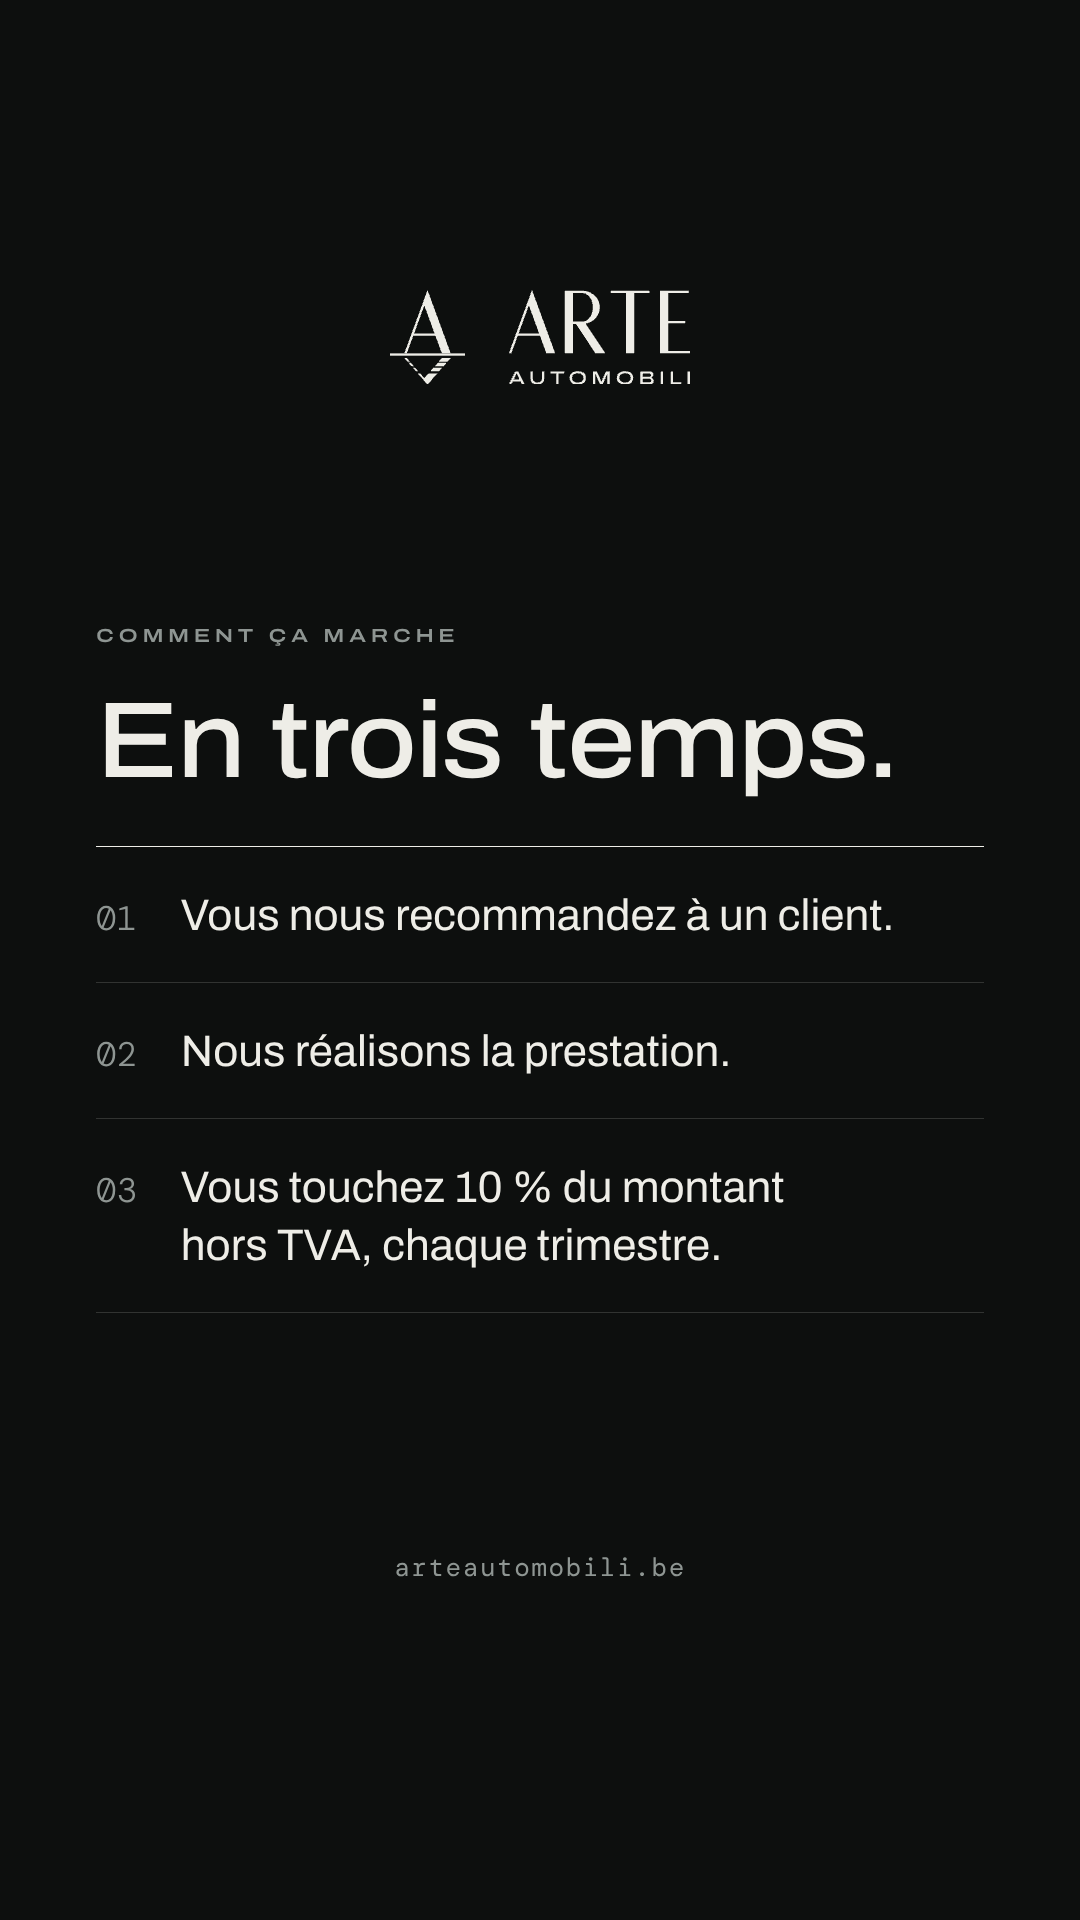
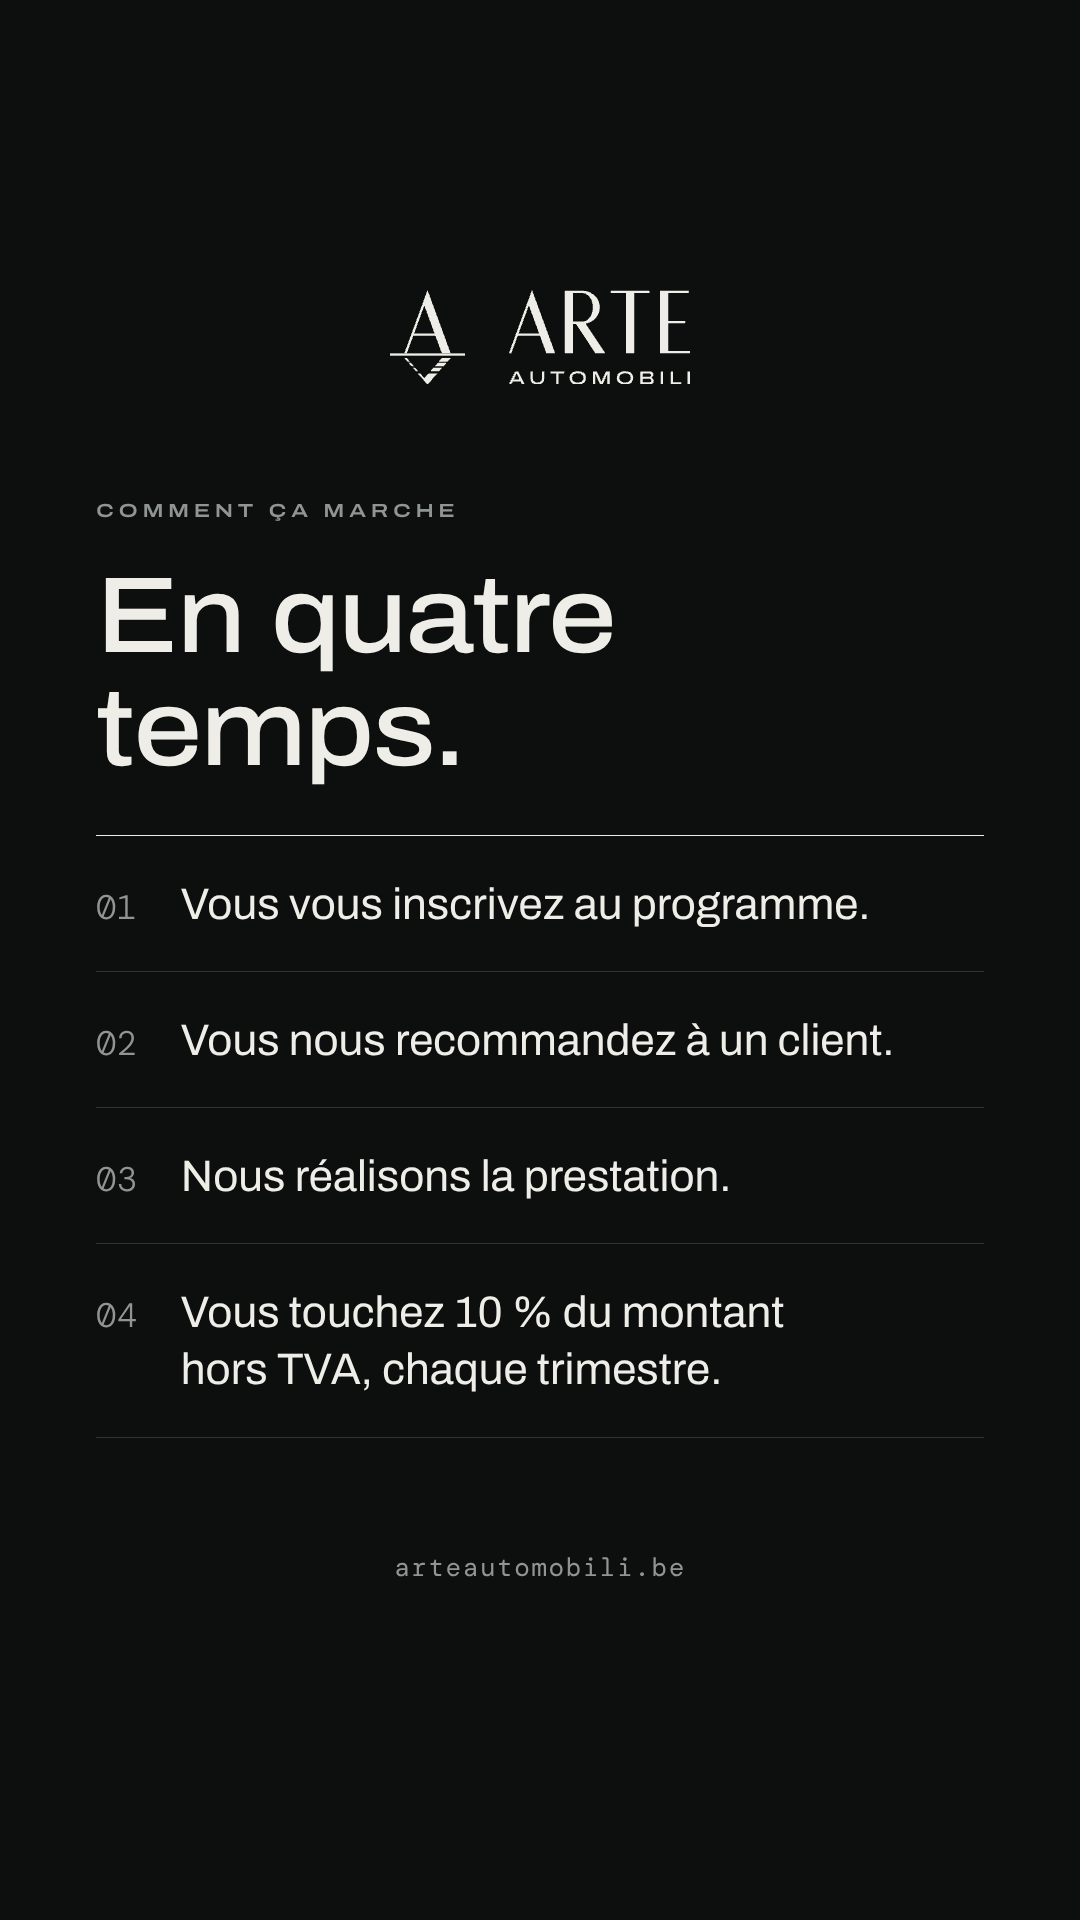
Require registration before referrals in the partner stories
The how-it-works story now has four steps, starting with registering
for the programme. The contact story states that registration is
required before any referral, and that partners register or ask
questions by e-mail or phone. The rule is saved in the shared data file.

Claude-Session: https://claude.ai/code/session_01M4iftK2mPXSePoswyiLXhc

diff --git a/arte-automobili/_source/reseaux/partenaires.py b/arte-automobili/_source/reseaux/partenaires.py
@@ -40,6 +40,7 @@ h1{{font:500 108px/1.05 Archivo,sans-serif;font-stretch:112%;letter-spacing:-.01
 h1 i,.chiffre i{{font-style:normal}}
 .texte{{margin-top:44px;font:400 44px/1.36 Archivo,sans-serif}}
 .texte strong{{font-weight:600}}
+.insecable{{white-space:nowrap}}
 .chiffre{{font:500 {400 if len(PCT) < 2 else 350}px/.92 Archivo,sans-serif;font-stretch:112%;letter-spacing:-.03em;margin-left:-14px}}
 .exemple{{margin-top:56px;padding-top:30px;border-top:1.5px solid #EEEDE7;display:flex;justify-content:space-between;
          font:300 34px/1 'DM Mono',monospace;letter-spacing:.02em}}
@@ -70,16 +71,17 @@ STORIES = [
     <p class="exemple"><span>Exemple</span><span>1&#8239;000&nbsp;€ HTVA → {10 * A['commission_pct']:g}&nbsp;€</span></p>""")),
     ("3-fonctionnement", page(f"""
     <p class="eyebrow">Comment ça marche</p>
-    <h1>En trois temps<i>.</i></h1>
+    <h1>En quatre temps<i>.</i></h1>
     <ol>
-      <li><span class="n">01</span><span class="t">Vous nous recommandez à un client.</span></li>
-      <li><span class="n">02</span><span class="t">Nous réalisons la prestation.</span></li>
-      <li><span class="n">03</span><span class="t">Vous touchez {PCT}&nbsp;% du montant hors&nbsp;TVA, {A['versement']}.</span></li>
+      <li><span class="n">01</span><span class="t">Vous vous inscrivez au programme.</span></li>
+      <li><span class="n">02</span><span class="t">Vous nous recommandez à un client.</span></li>
+      <li><span class="n">03</span><span class="t">Nous réalisons la prestation.</span></li>
+      <li><span class="n">04</span><span class="t">Vous touchez {PCT}&nbsp;% du montant hors&nbsp;TVA, {A['versement']}.</span></li>
     </ol>""")),
     ("4-contact", page(f"""
     <p class="eyebrow">Réservé aux professionnels</p>
     <h1>Devenez<br>partenaire<i>.</i></h1>
-    <p class="texte">Pour plus d'informations, contactez-nous par e-mail ou par téléphone.</p>
+    <p class="texte"><strong>Inscription obligatoire avant toute recommandation.</strong> Pour vous inscrire ou pour plus d'informations, contactez-nous par <span class="insecable">e-mail</span> ou par téléphone.</p>
     <div class="contact"><p>{X['email']}</p><p>{X['telephone']}</p></div>""")),
 ]
 

diff --git a/arte-automobili/20_programme-partenaires/README.md b/arte-automobili/20_programme-partenaires/README.md
@@ -6,8 +6,8 @@ Quatre stories Instagram (1080 × 1920 px) à publier dans l'ordre, dans le styl
 |---|---|
 | `story-partenaires-1-couverture.png` | « Recommandez. Gagnez. » Le programme d'affiliation réservé aux professionnels. |
 | `story-partenaires-2-commission.png` | 10 % sur le chiffre d'affaires hors TVA des clients apportés, réglée chaque trimestre. Exemple : 1 000 € HTVA → 100 €. |
-| `story-partenaires-3-fonctionnement.png` | En trois temps : vous recommandez, nous réalisons la prestation, vous touchez 10 % du montant hors TVA, chaque trimestre. |
-| `story-partenaires-4-contact.png` | « Devenez partenaire. » Pour plus d'informations : par e-mail ou par téléphone. |
+| `story-partenaires-3-fonctionnement.png` | En quatre temps : vous vous inscrivez, vous recommandez, nous réalisons la prestation, vous touchez 10 % du montant hors TVA, chaque trimestre. |
+| `story-partenaires-4-contact.png` | « Devenez partenaire. » Inscription obligatoire avant toute recommandation ; inscription et informations par e-mail ou par téléphone. |
 
 Le contenu évite les zones couvertes par l'interface d'Instagram (250 px en haut, 340 px en bas).
 
@@ -19,7 +19,7 @@ python3 _source/reseaux/partenaires.py
 
 ## À fixer avant de lancer le programme
 
-Les stories ne disent que ce que tu m'as donné : 10 % du chiffre d'affaires hors TVA apporté, réglés chaque trimestre. Avant les premières demandes, décide :
+Les stories ne disent que ce que tu m'as donné : 10 % du chiffre d'affaires hors TVA apporté, réglés chaque trimestre, après inscription préalable. Avant les premières demandes, décide :
 
 - **Comment un client est rattaché à un partenaire** : nom du partenaire donné à la réservation, code partenaire, lien dédié…
 - **La durée** : seulement la première prestation du client, ou toutes ses prestations pendant une période ?
